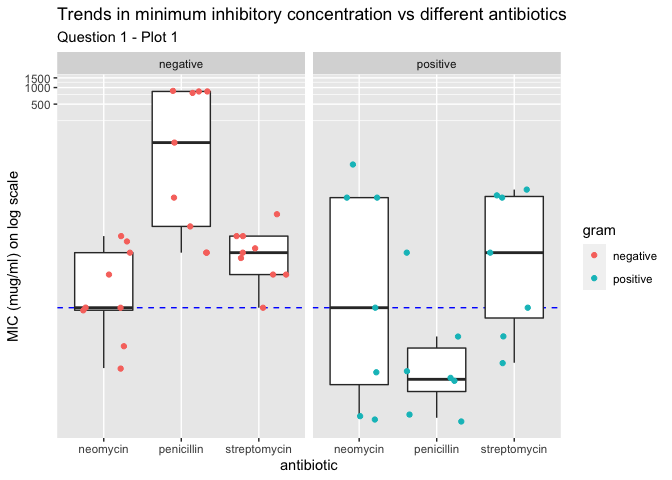
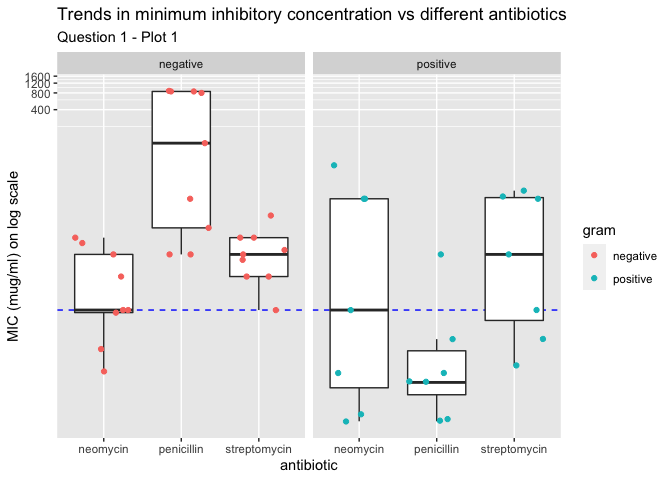
Second push for Challenge 5.

diff --git a/challenges/c05-antibiotics-assignment.md b/challenges/c05-antibiotics-assignment.md
@@ -230,7 +230,7 @@ don’t—align with their *genus* classification.
 ``` r
 ## TASK: Create your visualization
 
-df_antibiotics %>% 
+df_antibiotics2 <- df_antibiotics %>% 
   separate(
     bacteria, 
     into = c("genus", "species"), 
@@ -249,7 +249,32 @@ df_antibiotics %>%
     cols = c(penicillin, neomycin, streptomycin),
     names_to = "antibiotic",
     values_to = "value"
-  ) %>% 
+  )
+```
+
+    ## Warning: Expected 2 pieces. Additional pieces discarded in 1 rows [10].
+
+``` r
+df_antibiotics2
+```
+
+    ## # A tibble: 48 x 7
+    ##    bacteria            genus      species   gram    shape    antibiotic    value
+    ##    <chr>               <chr>      <chr>     <chr>   <chr>    <chr>         <dbl>
+    ##  1 Aerobacter aerogen… Aerobacter aerogenes negati… rod      penicillin  870    
+    ##  2 Aerobacter aerogen… Aerobacter aerogenes negati… rod      neomycin      1.6  
+    ##  3 Aerobacter aerogen… Aerobacter aerogenes negati… rod      streptomyc…   1    
+    ##  4 Brucella abortus    Brucella   abortus   negati… rod      penicillin    1    
+    ##  5 Brucella abortus    Brucella   abortus   negati… rod      neomycin      0.02 
+    ##  6 Brucella abortus    Brucella   abortus   negati… rod      streptomyc…   2    
+    ##  7 Bacillus anthracis  Bacillus   anthracis positi… rod      penicillin    0.001
+    ##  8 Bacillus anthracis  Bacillus   anthracis positi… rod      neomycin      0.007
+    ##  9 Bacillus anthracis  Bacillus   anthracis positi… rod      streptomyc…   0.01 
+    ## 10 Diplococcus pneumo… Diplococc… pneumonia positi… spheric… penicillin    0.005
+    ## # … with 38 more rows
+
+``` r
+df_antibiotics2 %>% 
   ggplot(aes(y = genus, x = value, color = antibiotic)) +
   geom_point() +
   geom_vline(
@@ -257,6 +282,7 @@ df_antibiotics %>%
     linetype = "dashed", 
     color = "blue"
   ) +
+  facet_grid(.~gram) +
   coord_trans(x = "log") +
   labs(
     title = "Minimum inhibitory concentration for each genus vs different antibiotics",
@@ -264,8 +290,6 @@ df_antibiotics %>%
     x = "MIC (mug/ml) on log scale"
   )
 ```
-
-    ## Warning: Expected 2 pieces. Additional pieces discarded in 1 rows [10].
 
 ![](c05-antibiotics-assignment_files/figure-gfm/q2-task-1.png)<!-- -->
 
@@ -281,6 +305,17 @@ df_antibiotics %>%
     against Staphylococcus, Proteus, and Bacillus.**
   - **None of the antibiotics are effective for treating Pseudomonas,
     Mycobacterium, Klebsiella, or Aerobacter.**
+  - **[Gram
+    negative](https://en.wikipedia.org/wiki/Gram-negative_bacteria)
+    bacterial strains in this dataset are more drug-resistant than Gram
+    positive bacertial strains. Gram positive bacteria strains have a
+    physical defensive layer against antibiotics that can be pierced by
+    penicillin. Meanwhile, the Gram negative bacertial strains have
+    developed/possess other defenses against antibiotics ([efflux
+    pumps](https://www.ncbi.nlm.nih.gov/pmc/articles/PMC3711980/),
+    [mutation](https://www.ncbi.nlm.nih.gov/pmc/articles/PMC89960/), and
+    [lactamase
+    production](https://en.wikipedia.org/wiki/Beta-lactamase)).**
 
 # References
 
